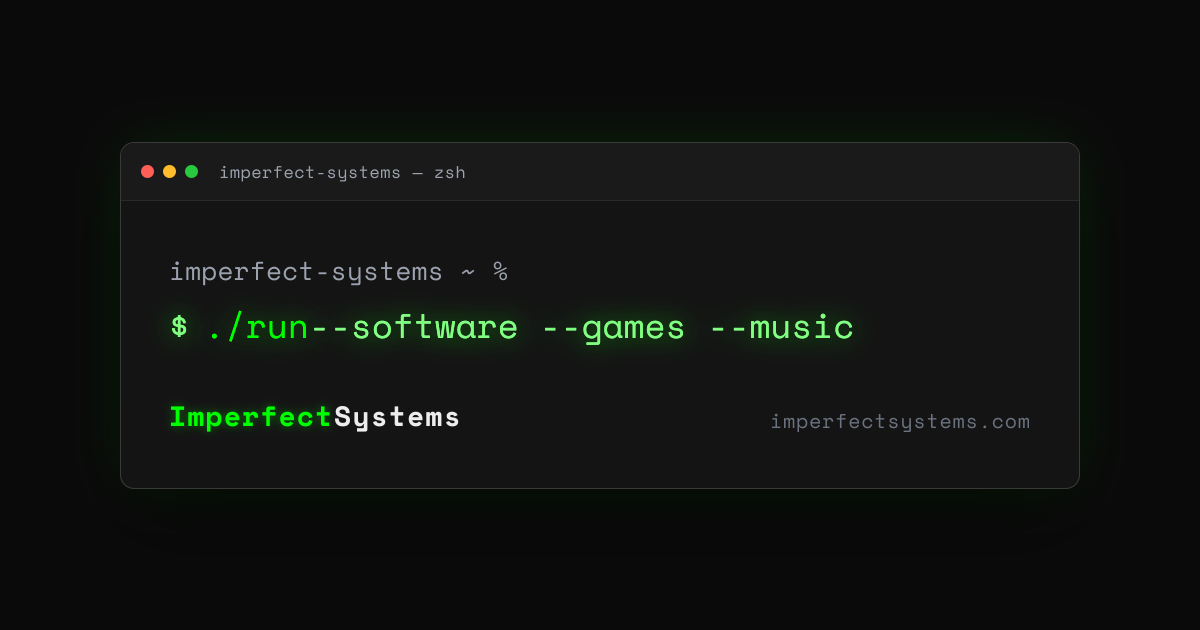
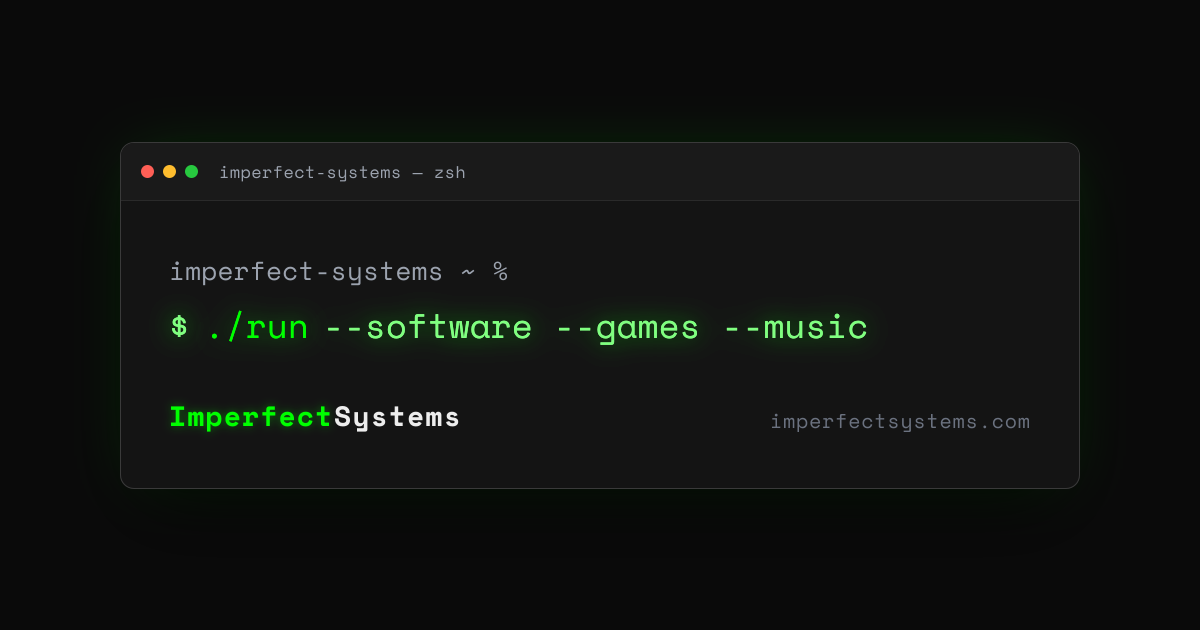
Fix missing space in imperfectSystemsCard fixture output
satori-html unconditionally trims every text node's value
(node.value.trim() in its own source), so a literal space between
"./run" and the following <span> was silently dropped, rendering as
"run--software" instead of "run --software". A non-breaking space
doesn't survive either since JS trim() strips it too. Fixed the same
way the other spans on this line already get their gap: an explicit
margin-right instead of a whitespace character.

Regenerated docs/og-card-example.png to match.

Claude-Session: https://claude.ai/code/session_01PceRv1pFL8TsYDjP1Jk8uR

Changed region(s): [[0.2775, 0.4825, 0.74, 0.5429]]

diff --git a/src/assets/fixtures/imperfectSystemsCard.ts b/src/assets/fixtures/imperfectSystemsCard.ts
@@ -20,7 +20,7 @@ export const imperfectSystemsCard = `
     <div style="display:flex;flex-direction:column;padding:44px 48px 52px;">
       <div style="color:#9ca3af;font-size:26px;line-height:1.9;letter-spacing:0.01em;">imperfect-systems ~ %</div>
       <div style="display:flex;font-size:34px;line-height:1.8;color:#00ff00;text-shadow:0 0 10px rgba(0,255,0,0.55), 0 0 24px rgba(0,255,0,0.3);letter-spacing:0.005em;">
-        <span style="color:#80ff80;margin-right:14px;">$</span>./run <span style="color:#80ff80;">--software --games --music</span>
+        <span style="color:#80ff80;margin-right:14px;">$</span><span style="margin-right:14px;">./run</span><span style="color:#80ff80;">--software --games --music</span>
       </div>
       <div style="display:flex;margin-top:40px;justify-content:space-between;align-items:baseline;">
         <div style="display:flex;font-size:28px;font-weight:700;color:#ededed;letter-spacing:0.04em;">
